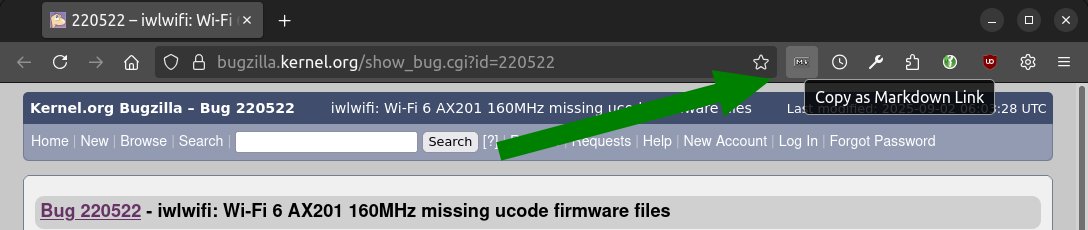
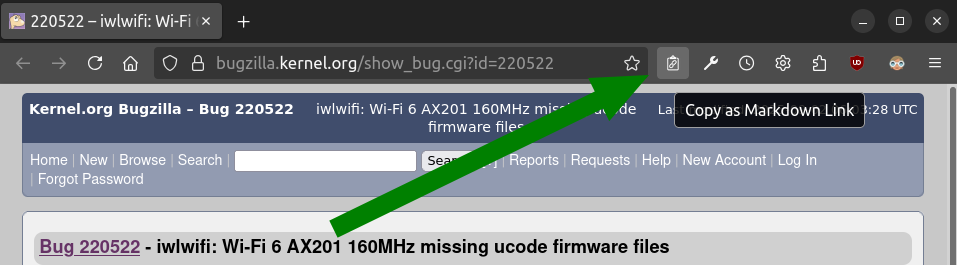
fix(caml): update documentation

diff --git a/caml/README.md b/caml/README.md
@@ -14,7 +14,7 @@ Firefox Extension to copy the current tab's URL and title as a Markdown/Jira/HTM
 
 For example, suppose your active tab is <https://bugzilla.kernel.org/show_bug.cgi?id=220522>.
 
-Trigger the extension action either by clicking the icon in the Firefox toolbar or by using the extension shortcut configured near "Copy the current tab's URL and title as Markdown link" (default is `Ctrl+Alt+M`).
+Trigger the extension action either by clicking the icon in the Firefox toolbar or by using the extension's keyboard shortcut configured near "Copy the current tab's URL and title as Markdown link" (default is `Ctrl+Alt+M`).
 
 ![Click Extension Icon](screenshots/background.png)
 
@@ -46,19 +46,21 @@ To do that, open the extension preferences page and add the following rule:
 Do not forget to click "Save Options" button and go back to the <https://bugzilla.kernel.org/show_bug.cgi?id=220522> page.
 Trigger the extension action.
 
-Please note that there are also keyboard shortcuts to copy links in Jira and HTML formats, which include the link's title similarly to Markdown syntax.
+You can also copy links to Jira and HTML format similarly to Markdown syntax by using the contextual menu by right-clicking the icon or by using the extension's keyboard shortcut.
+
+![Right-Click Extension Icon](screenshots/background-secondary.png)
 
 ![Keyboard Shortcuts page](screenshots/keybindings.png)
 
 With our previous example, it will result as follow:
 
-- For Jira syntax: default keyboard shortcut is `Ctrl+Alt+J`:
+- For Jira syntax: choose "Copy as Jira Link" in the contextual menu or use default keyboard shortcut `Ctrl+Alt+J`:
 
 ```none
 [#220522|https://bugzilla.kernel.org/show_bug.cgi?id=220522]
 ```
 
-- For HTML syntax: default keyboard shortcut is `Ctrl+Alt+H`:
+- For HTML syntax: choose "Copy as HTML Link" in the contextual menu or use default keyboard shortcut `Ctrl+Alt+H`:
 
 ```html
 <a href="https://bugzilla.kernel.org/show_bug.cgi?id=220522" title="#220522" target="_new">#220522</a>
